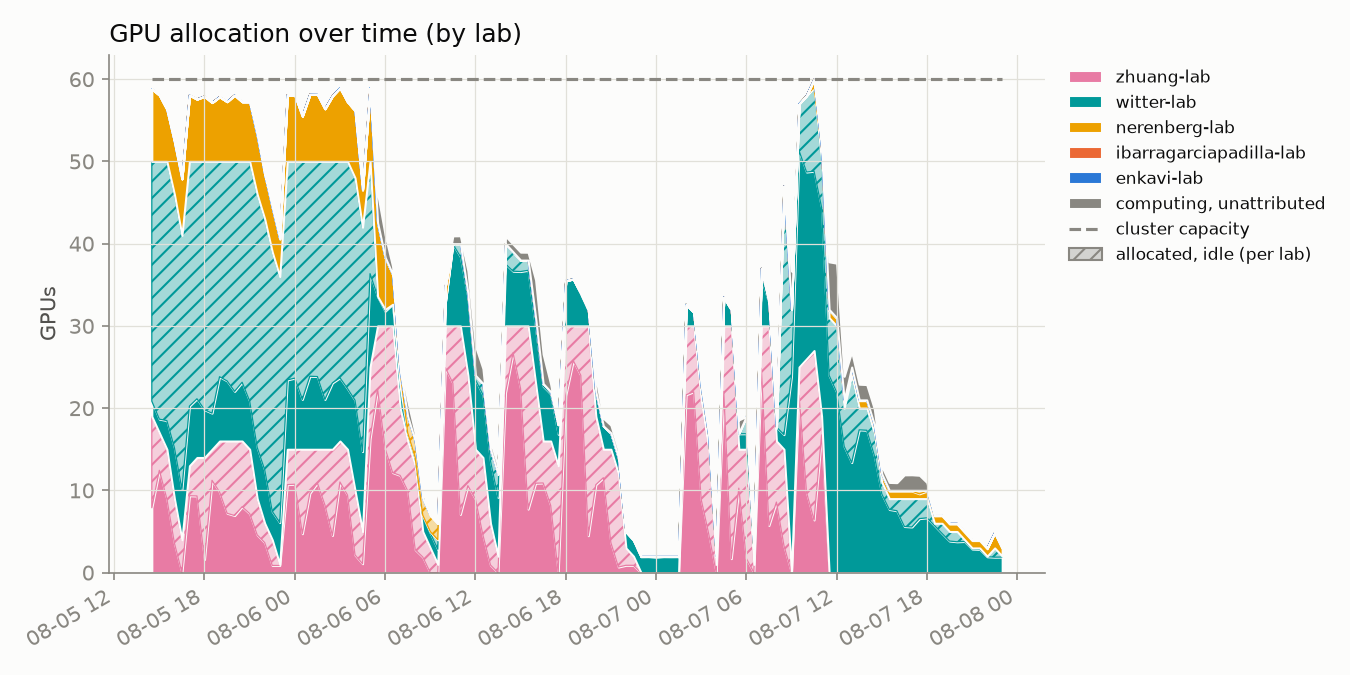
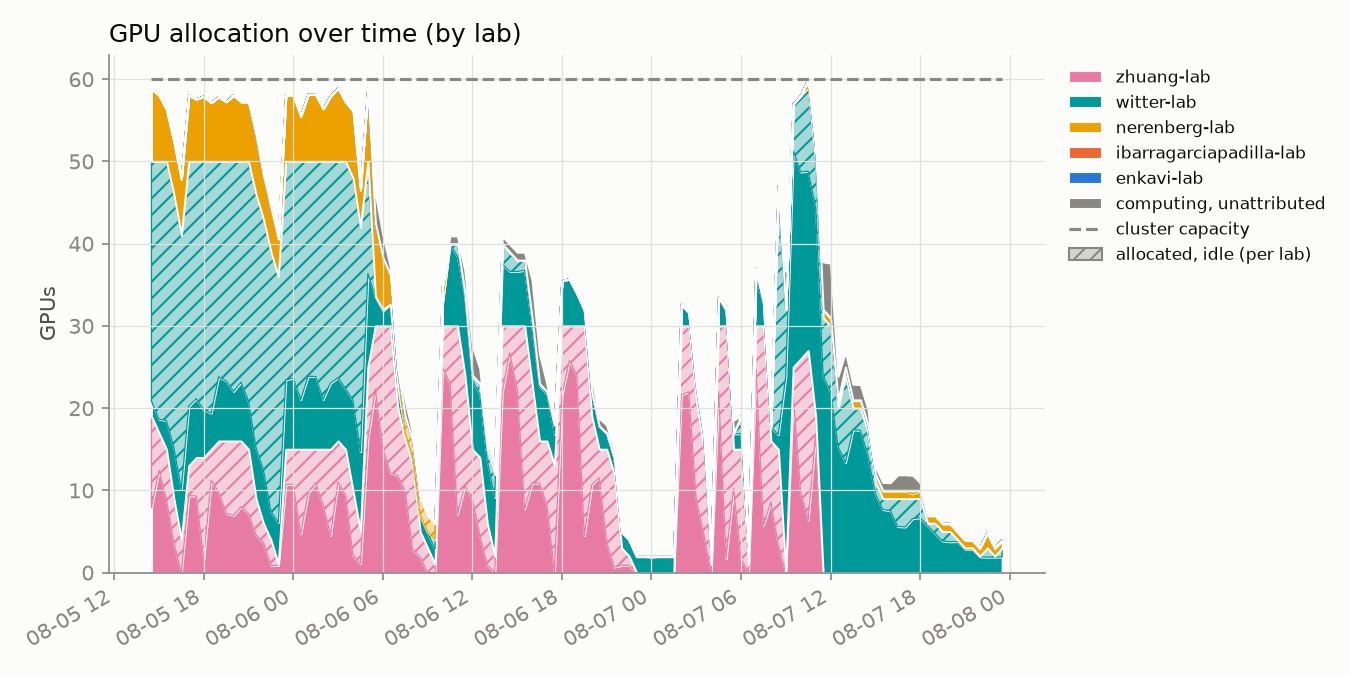
update 2026-08-07T23:30:01-07:00

diff --git a/README.md b/README.md
@@ -2,8 +2,8 @@
 
 Automated GPU/CPU/queue utilization tracker for `hopper.cluster`, updated every 30 minutes by cron. Usernames are anonymized to a stable per-account pseudonym; lab names are real.
 
-Last updated: 2026-08-07T23:00:07-07:00
-Samples: 114 queue snapshots, 114 GPU snapshots
+Last updated: 2026-08-07T23:30:07-07:00
+Samples: 115 queue snapshots, 115 GPU snapshots
 
 ## Resources
 
@@ -16,7 +16,7 @@ Samples: 114 queue snapshots, 114 GPU snapshots
 
 ## Headline
 
-- **47.8%** of the cluster's 60 GPUs allocated, averaged across all samples
+- **47.5%** of the cluster's 60 GPUs allocated, averaged across all samples
 - **46.6%** average `nvidia-smi` utilization *when* a GPU is allocated to a job
 - **87.2%** average cgroup CPU utilization *when* a CPU is allocated to a job
 
@@ -26,14 +26,14 @@ Samples: 114 queue snapshots, 114 GPU snapshots
 <tr><th>Lab</th><th>User</th><th align='right'>GPU-hours allocated</th><th align='right'>CPU-hours allocated</th><th align='right'>GPU utilization</th></tr>
 <tr style='background-color:#fbebf1'><td>zhuang-lab</td><td>user-0db9ced0</td><td align='right'>722.0</td><td align='right'>722.0</td><td align='right'>48%</td></tr>
 <tr style='background-color:#d8efef'><td>witter-lab</td><td>user-d58f5a15</td><td align='right'>467.5</td><td align='right'>3740.0</td><td align='right'>9%</td></tr>
-<tr style='background-color:#d8efef'><td>witter-lab</td><td>user-554c620c</td><td align='right'>393.0</td><td align='right'>902.5</td><td align='right'>65%</td></tr>
+<tr style='background-color:#d8efef'><td>witter-lab</td><td>user-554c620c</td><td align='right'>394.5</td><td align='right'>904.0</td><td align='right'>65%</td></tr>
 <tr style='background-color:#fcf0d8'><td>nerenberg-lab</td><td>user-6bb5f332</td><td align='right'>40.0</td><td align='right'>200.0</td><td align='right'>71%</td></tr>
-<tr style='background-color:#fcf0d8'><td>nerenberg-lab</td><td>user-fedb5feb</td><td align='right'>13.0</td><td align='right'>44.5</td><td align='right'>60%</td></tr>
-<tr style='background-color:#fcf0d8'><td>nerenberg-lab</td><td>user-b12dc074</td><td align='right'>0.0</td><td align='right'>16.0</td><td align='right'>—</td></tr>
-<tr style='background-color:#dfeaf8'><td>enkavi-lab</td><td>user-c21bdaa4</td><td align='right'>0.0</td><td align='right'>171.0</td><td align='right'>—</td></tr>
-<tr style='background-color:#fce8e0'><td>ibarragarciapadilla-lab</td><td>user-3cfc41a3</td><td align='right'>0.0</td><td align='right'>3780.0</td><td align='right'>—</td></tr>
-<tr style='background-color:#fce8e0'><td>ibarragarciapadilla-lab</td><td>user-dad71a72</td><td align='right'>0.0</td><td align='right'>6.0</td><td align='right'>—</td></tr>
+<tr style='background-color:#fcf0d8'><td>nerenberg-lab</td><td>user-fedb5feb</td><td align='right'>13.5</td><td align='right'>45.0</td><td align='right'>61%</td></tr>
+<tr style='background-color:#fce8e0'><td>ibarragarciapadilla-lab</td><td>user-3cfc41a3</td><td align='right'>0.0</td><td align='right'>3787.5</td><td align='right'>—</td></tr>
 <tr style='background-color:#fce8e0'><td>ibarragarciapadilla-lab</td><td>user-eec7ffae</td><td align='right'>0.0</td><td align='right'>426.5</td><td align='right'>—</td></tr>
+<tr style='background-color:#dfeaf8'><td>enkavi-lab</td><td>user-c21bdaa4</td><td align='right'>0.0</td><td align='right'>171.0</td><td align='right'>—</td></tr>
+<tr style='background-color:#fcf0d8'><td>nerenberg-lab</td><td>user-b12dc074</td><td align='right'>0.0</td><td align='right'>16.0</td><td align='right'>—</td></tr>
+<tr style='background-color:#fce8e0'><td>ibarragarciapadilla-lab</td><td>user-dad71a72</td><td align='right'>0.0</td><td align='right'>6.0</td><td align='right'>—</td></tr>
 </table>
 
 ## Usage over time
@@ -44,7 +44,7 @@ Samples: 114 queue snapshots, 114 GPU snapshots
 
 Solid = utilized by lab, hatched = allocated but idle, gray = usage not traceable to a lab, dashed line = cluster capacity.
 
-Attribution combines `nvidia-smi`'s process listing with Slurm's GPU-to-job binding record; the latter caught **2440** readings the former missed.
+Attribution combines `nvidia-smi`'s process listing with Slurm's GPU-to-job binding record; the latter caught **2442** readings the former missed.
 
 ## Queue
 
@@ -56,13 +56,13 @@ Attribution combines `nvidia-smi`'s process listing with Slurm's GPU-to-job bind
 
 ![CPU usage vs GPU usage, decayed](assets/cpu_gpu_usage.png)
 
-One point per user per snapshot (n=548), usage decayed on Slurm's ~7-day fairshare half-life.
+One point per user per snapshot (n=552), usage decayed on Slurm's ~7-day fairshare half-life.
 
 **GPU usage doesn't count toward priority on this cluster** (`TRESBillingWeights`/`PriorityWeightTRES` unset) - watch the **upper-left**: low CPU usage (high priority) with high GPU usage.
 
 ## Recommendations
 
-1. **Weight GPU usage in fairshare.** `TRESBillingWeights` and `PriorityWeightTRES` are both unset right now, so Slurm's fairshare score only sees CPU-seconds - a job holding 4 idle L40S GPUs costs nothing in priority as long as it isn't also holding CPUs. That's the exact failure mode the scatter above is built to catch (upper-left: low CPU usage, high GPU usage). Fix: `scontrol update partition=main TRESBillingWeights=CPU=1.0,GRES/gpu=<weight>` (or set `PriorityWeightTRES` cluster-wide), then `scontrol reconfigure` - a full `slurmctld` restart also works but drops in-flight priority state. A reasonable starting point for `<weight>` is the CPUs-per-GPU ratio on a GPU node (128 CPUs / 4 GPUs = 32), so one GPU costs as much fairshare as the CPU share it displaces; tune from there against next week's headline numbers (47.8% allocated, 46.6% utilized when allocated, as of this snapshot). The weight value itself is a policy call - loop in whoever owns cluster allocation policy before changing it.
+1. **Weight GPU usage in fairshare.** `TRESBillingWeights` and `PriorityWeightTRES` are both unset right now, so Slurm's fairshare score only sees CPU-seconds - a job holding 4 idle L40S GPUs costs nothing in priority as long as it isn't also holding CPUs. That's the exact failure mode the scatter above is built to catch (upper-left: low CPU usage, high GPU usage). Fix: `scontrol update partition=main TRESBillingWeights=CPU=1.0,GRES/gpu=<weight>` (or set `PriorityWeightTRES` cluster-wide), then `scontrol reconfigure` - a full `slurmctld` restart also works but drops in-flight priority state. A reasonable starting point for `<weight>` is the CPUs-per-GPU ratio on a GPU node (128 CPUs / 4 GPUs = 32), so one GPU costs as much fairshare as the CPU share it displaces; tune from there against next week's headline numbers (47.5% allocated, 46.6% utilized when allocated, as of this snapshot). The weight value itself is a policy call - loop in whoever owns cluster allocation policy before changing it.
 
 2. **Escalate on sustained low utilization** (see table and scatter above). Right now the clearest candidate is `user-d58f5a15` in `witter-lab`: 467.5 GPU-hours allocated at 9% average utilization, i.e. roughly 424 GPU-hours that sat idle instead of going to someone in the queue. Turning that into an automated escalation needs two decisions made up front: a utilization threshold (something like under 20% mean utilization over at least 50 allocated GPU-hours is a defensible starting bar - loose enough to skip short debugging runs, tight enough to catch parked allocations) and a grace period (how many consecutive low-utilization snapshots before it counts as "sustained" rather than a momentary lull between batches). Once those are set, the mechanism can be either soft (a bot that reads `data/gpu_samples.jsonl` and reminds the user/lab by email or Slack) or hard (a Slurm-side QOS penalty, e.g. `sacctmgr modify qos <qos> set Priority-=<n>`, applied after N consecutive offending snapshots). Neither exists yet - today the table and scatter above are a read-only signal, not an enforced policy.
 
